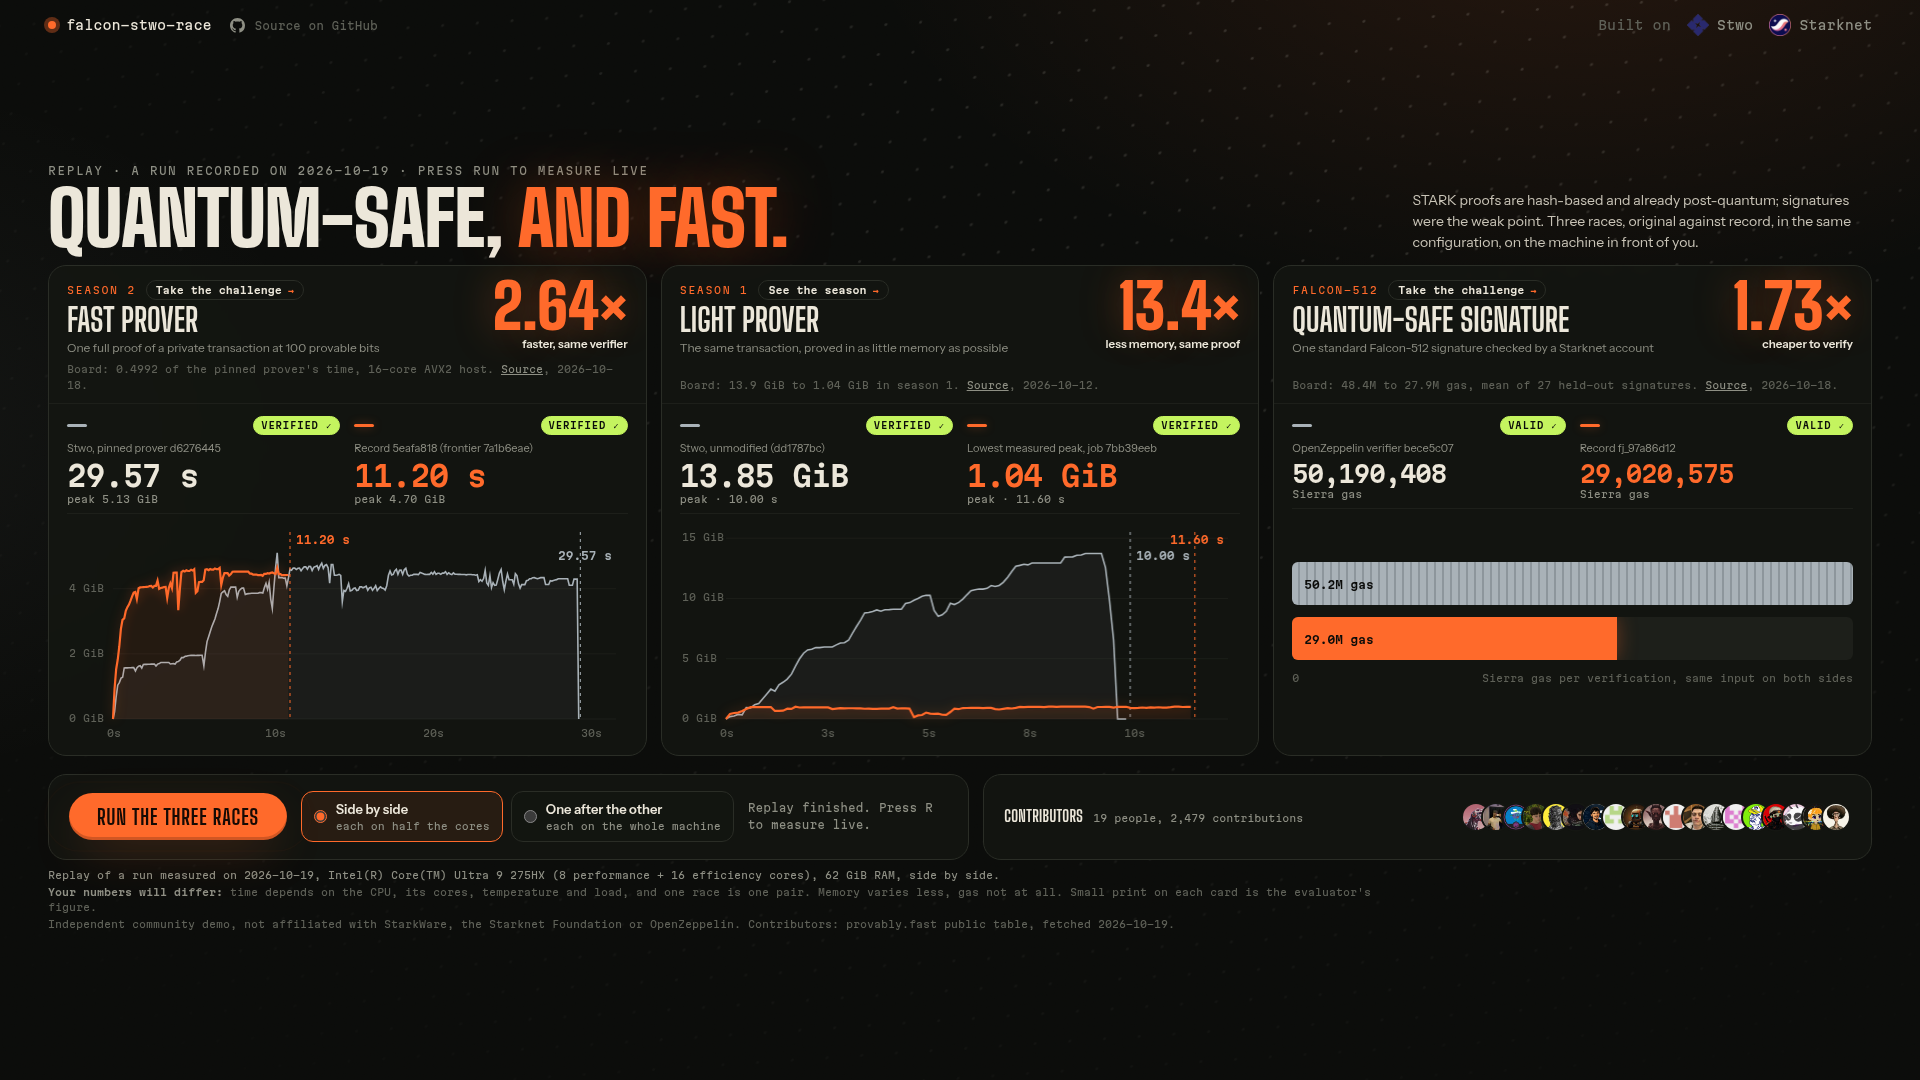
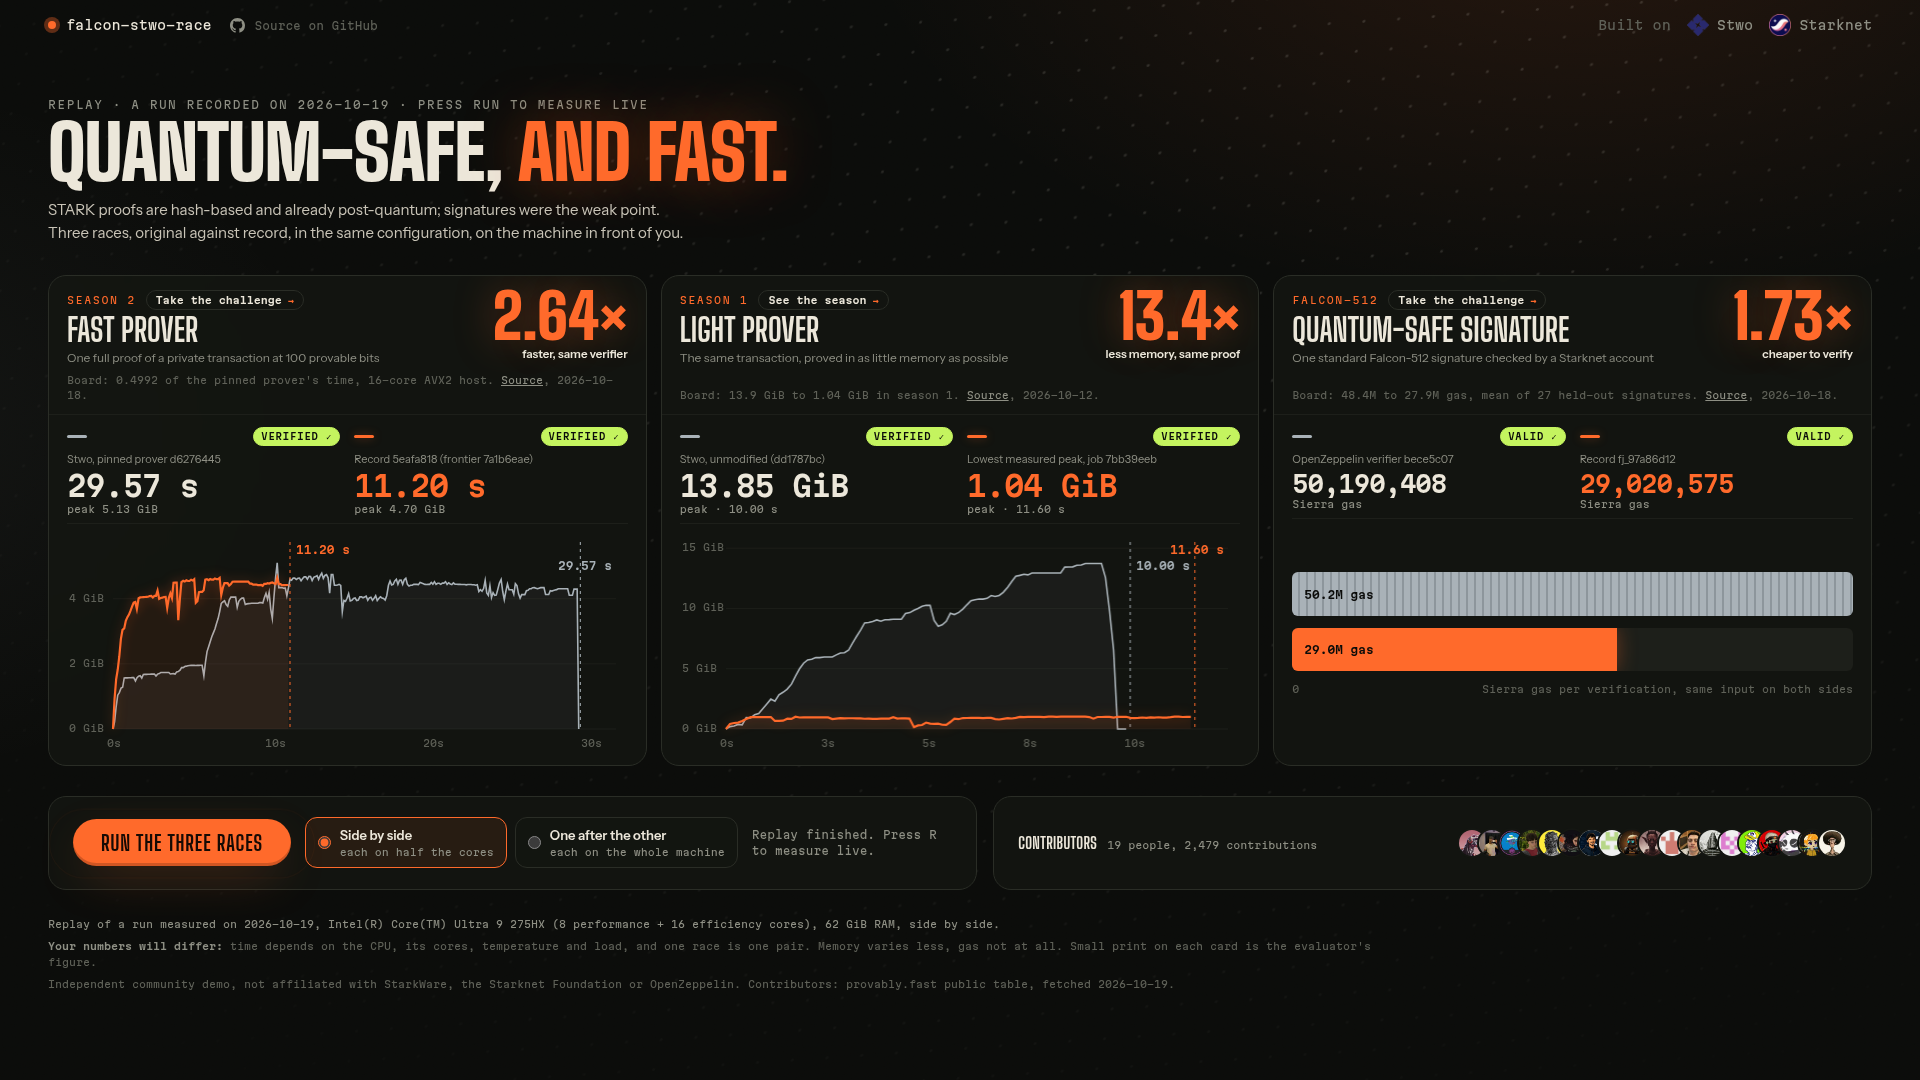
More room between title, cards, dock and footnote; lede under the title
The two sentences of the lede now sit under the title, one per line, and the
gaps between the title, the cards, the run and contributors cards and the
footnote are larger.

diff --git a/web/styles.css b/web/styles.css
@@ -73,11 +73,12 @@ body {
 .built img { width: 22px; height: 22px; border-radius: 6px; }
 
 /* Title row */
-.hero { display: grid; grid-template-columns: auto minmax(0, 46ch); justify-content: space-between; align-items: end; gap: 12px 48px; padding: 6px 0 12px; }
+.hero { padding: 10px 0 30px; }
 .eyebrow { font: 400 11px/1.4 var(--mono); text-transform: uppercase; letter-spacing: 0.14em; color: var(--muted); margin: 0 0 6px; }
 h1 { font: 900 clamp(40px, 4.4vw, 76px)/0.9 var(--display); text-transform: uppercase; letter-spacing: -0.01em; margin: 0; }
 h1 em { font-style: normal; color: var(--rec); text-shadow: 0 0 60px var(--rec-glow); }
-.lede { margin: 0; color: #c9c4b7; font-size: 14px; line-height: 1.5; }
+.lede { margin: 12px 0 0; color: #c9c4b7; font-size: 15px; line-height: 1.55; }
+.lede span { display: block; }
 .hero-title, .lede { opacity: 0; animation: rise .8s var(--ease) forwards; }
 .lede { animation-delay: 120ms; }
 
@@ -150,8 +151,8 @@ h1 em { font-style: normal; color: var(--rec); text-shadow: 0 0 60px var(--rec-g
 
 /* Dock: run controls and contributors, under the cards */
 /* Dock under the cards: run controls, then the contributors on their own row. */
-.dock { display: grid; grid-template-columns: auto minmax(0, 1fr); gap: 14px; margin-top: 18px; }
-.dock-card { padding: 16px 20px; border: 1px solid var(--line); border-radius: var(--r); background: var(--panel); backdrop-filter: blur(6px); }
+.dock { display: grid; grid-template-columns: auto minmax(0, 1fr); gap: 16px; margin-top: 30px; }
+.dock-card { padding: 20px 24px; border: 1px solid var(--line); border-radius: var(--r); background: var(--panel); backdrop-filter: blur(6px); }
 .dock-run { display: flex; align-items: center; gap: 14px; flex-wrap: wrap; }
 .go {
   position: relative; isolation: isolate;
@@ -200,8 +201,8 @@ kbd { font: 600 10px var(--mono); padding: 1px 5px; border: 1px solid var(--line
 .people a:hover::after, .people a:focus-visible::after { opacity: 1; transform: translate(-50%, 0); }
 
 /* Footnote */
-.foot { padding: 8px 0 10px; font: 400 10px/1.5 var(--mono); color: var(--faint); }
-.foot p { margin: 0 0 2px; max-width: 190ch; }
+.foot { padding: 26px 0 16px; font: 400 10px/1.6 var(--mono); color: var(--faint); }
+.foot p { margin: 0 0 6px; max-width: 190ch; }
 .foot b { color: var(--muted); font-weight: 600; }
 .setup { color: #ffc0c9; }
 .setup.replay { color: var(--muted); }
@@ -213,7 +214,7 @@ kbd { font: 600 10px var(--mono); padding: 1px 5px; border: 1px solid var(--line
 }
 @media (max-height: 960px) and (min-width: 1100px) {
   .top { padding: 10px 0 4px; }
-  .hero { padding: 2px 0 8px; }
+  .hero { padding: 4px 0 20px; }
   h1 { font-size: clamp(36px, 3.8vw, 60px); }
   .lede { font-size: 13px; }
   .lane-info { padding: 12px 16px 10px; gap: 6px 12px; }
@@ -222,14 +223,13 @@ kbd { font: 600 10px var(--mono); padding: 1px 5px; border: 1px solid var(--line
   .verdict-num { font-size: clamp(38px, 3.4vw, 58px); }
   .lane-race { padding: 10px 14px; gap: 8px; }
   .viz { height: clamp(120px, 20vh, 190px); }
-  .dock { margin-top: 12px; }
-  .dock-card { padding: 12px 16px; }
+  .dock { margin-top: 20px; }
+  .dock-card { padding: 14px 18px; }
   .go { padding: 12px 24px; font-size: 19px; }
   .people img { width: 26px; height: 26px; }
-  .foot { padding: 8px 0 10px; font-size: 10px; }
+  .foot { padding: 16px 0 10px; font-size: 10px; }
 }
 @media (max-width: 1099px) {
-  .hero { grid-template-columns: 1fr; }
   .lanes { grid-template-columns: 1fr; grid-template-rows: none; row-gap: 14px; }
   .lane { grid-row: auto; grid-template-rows: auto auto; }
   .viz { height: 200px; }

diff --git a/web/index.html b/web/index.html
@@ -33,8 +33,8 @@
       <div class="hero-title">
         <p class="eyebrow">Live · measured on this machine · nothing pre-recorded</p>
         <h1>Quantum-safe, <em>and fast.</em></h1>
+        <p class="lede"><span>STARK proofs are hash-based and already post-quantum; signatures were the weak point.</span> <span>Three races, original against record, in the same configuration, on the machine in front of you.</span></p>
       </div>
-      <p class="lede">STARK proofs are hash-based and already post-quantum; signatures were the weak point. Three races, original against record, in the same configuration, on the machine in front of you.</p>
     </section>
 
     <section id="lanes" class="lanes" aria-live="polite"></section>
